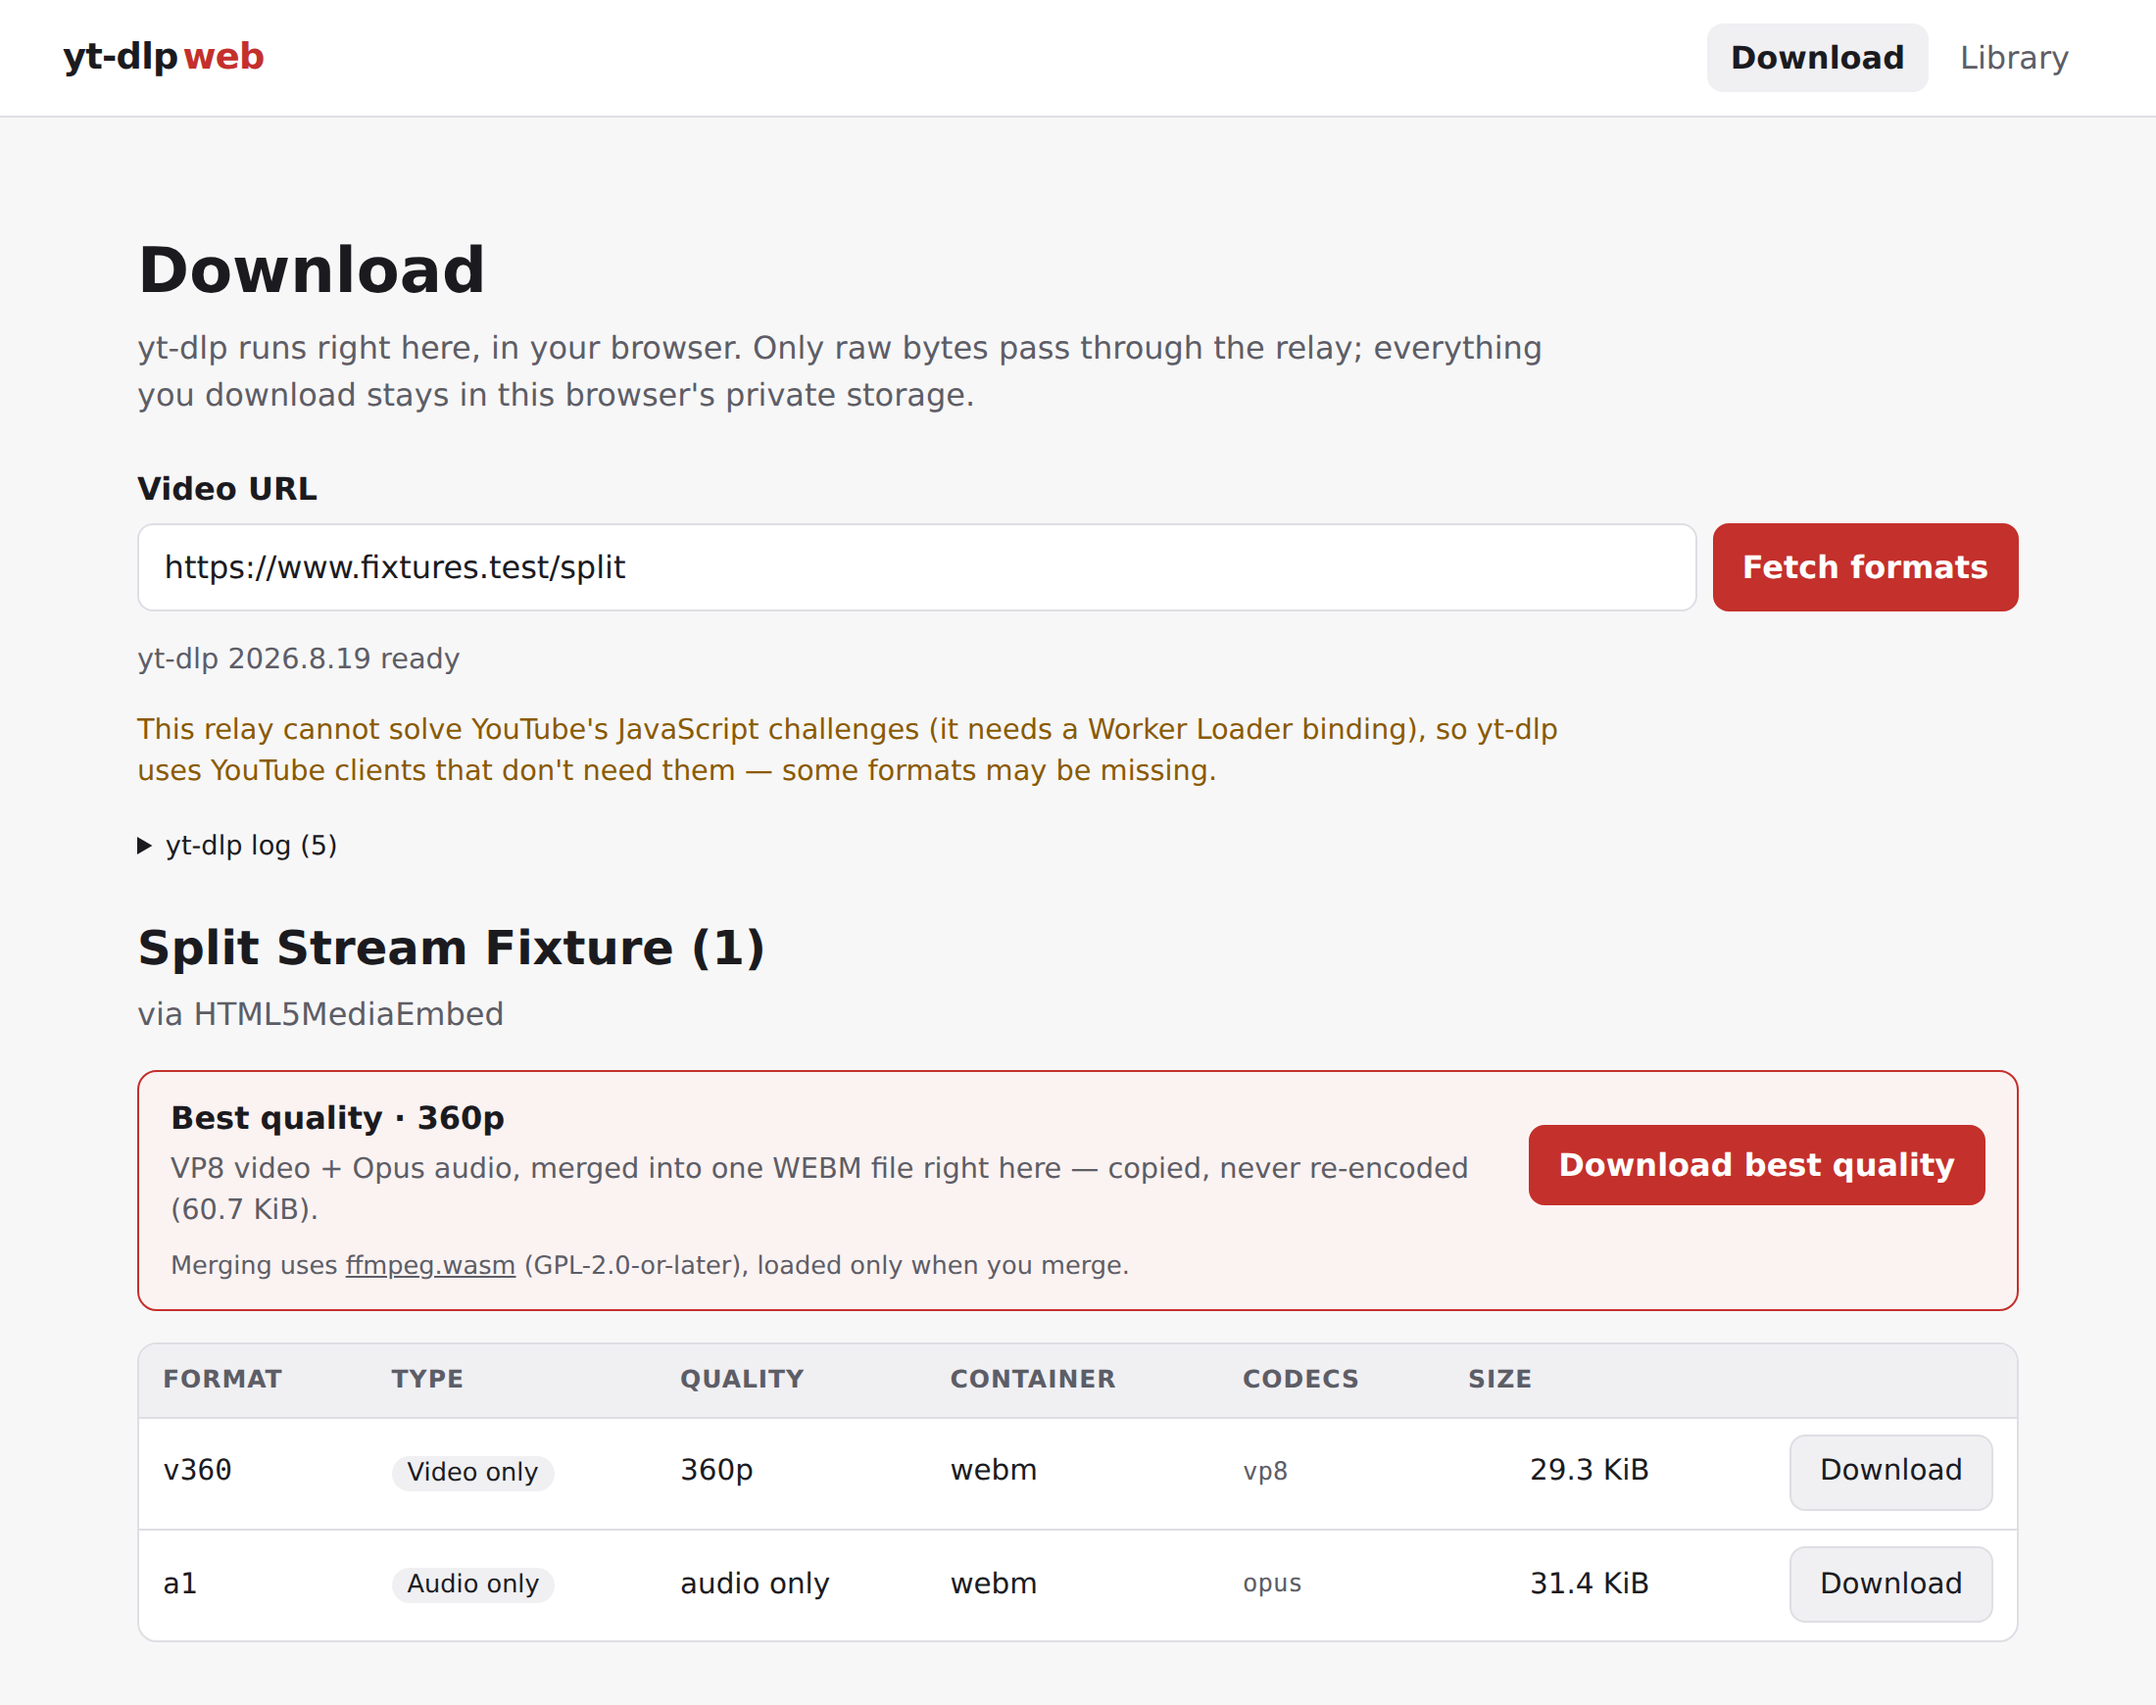
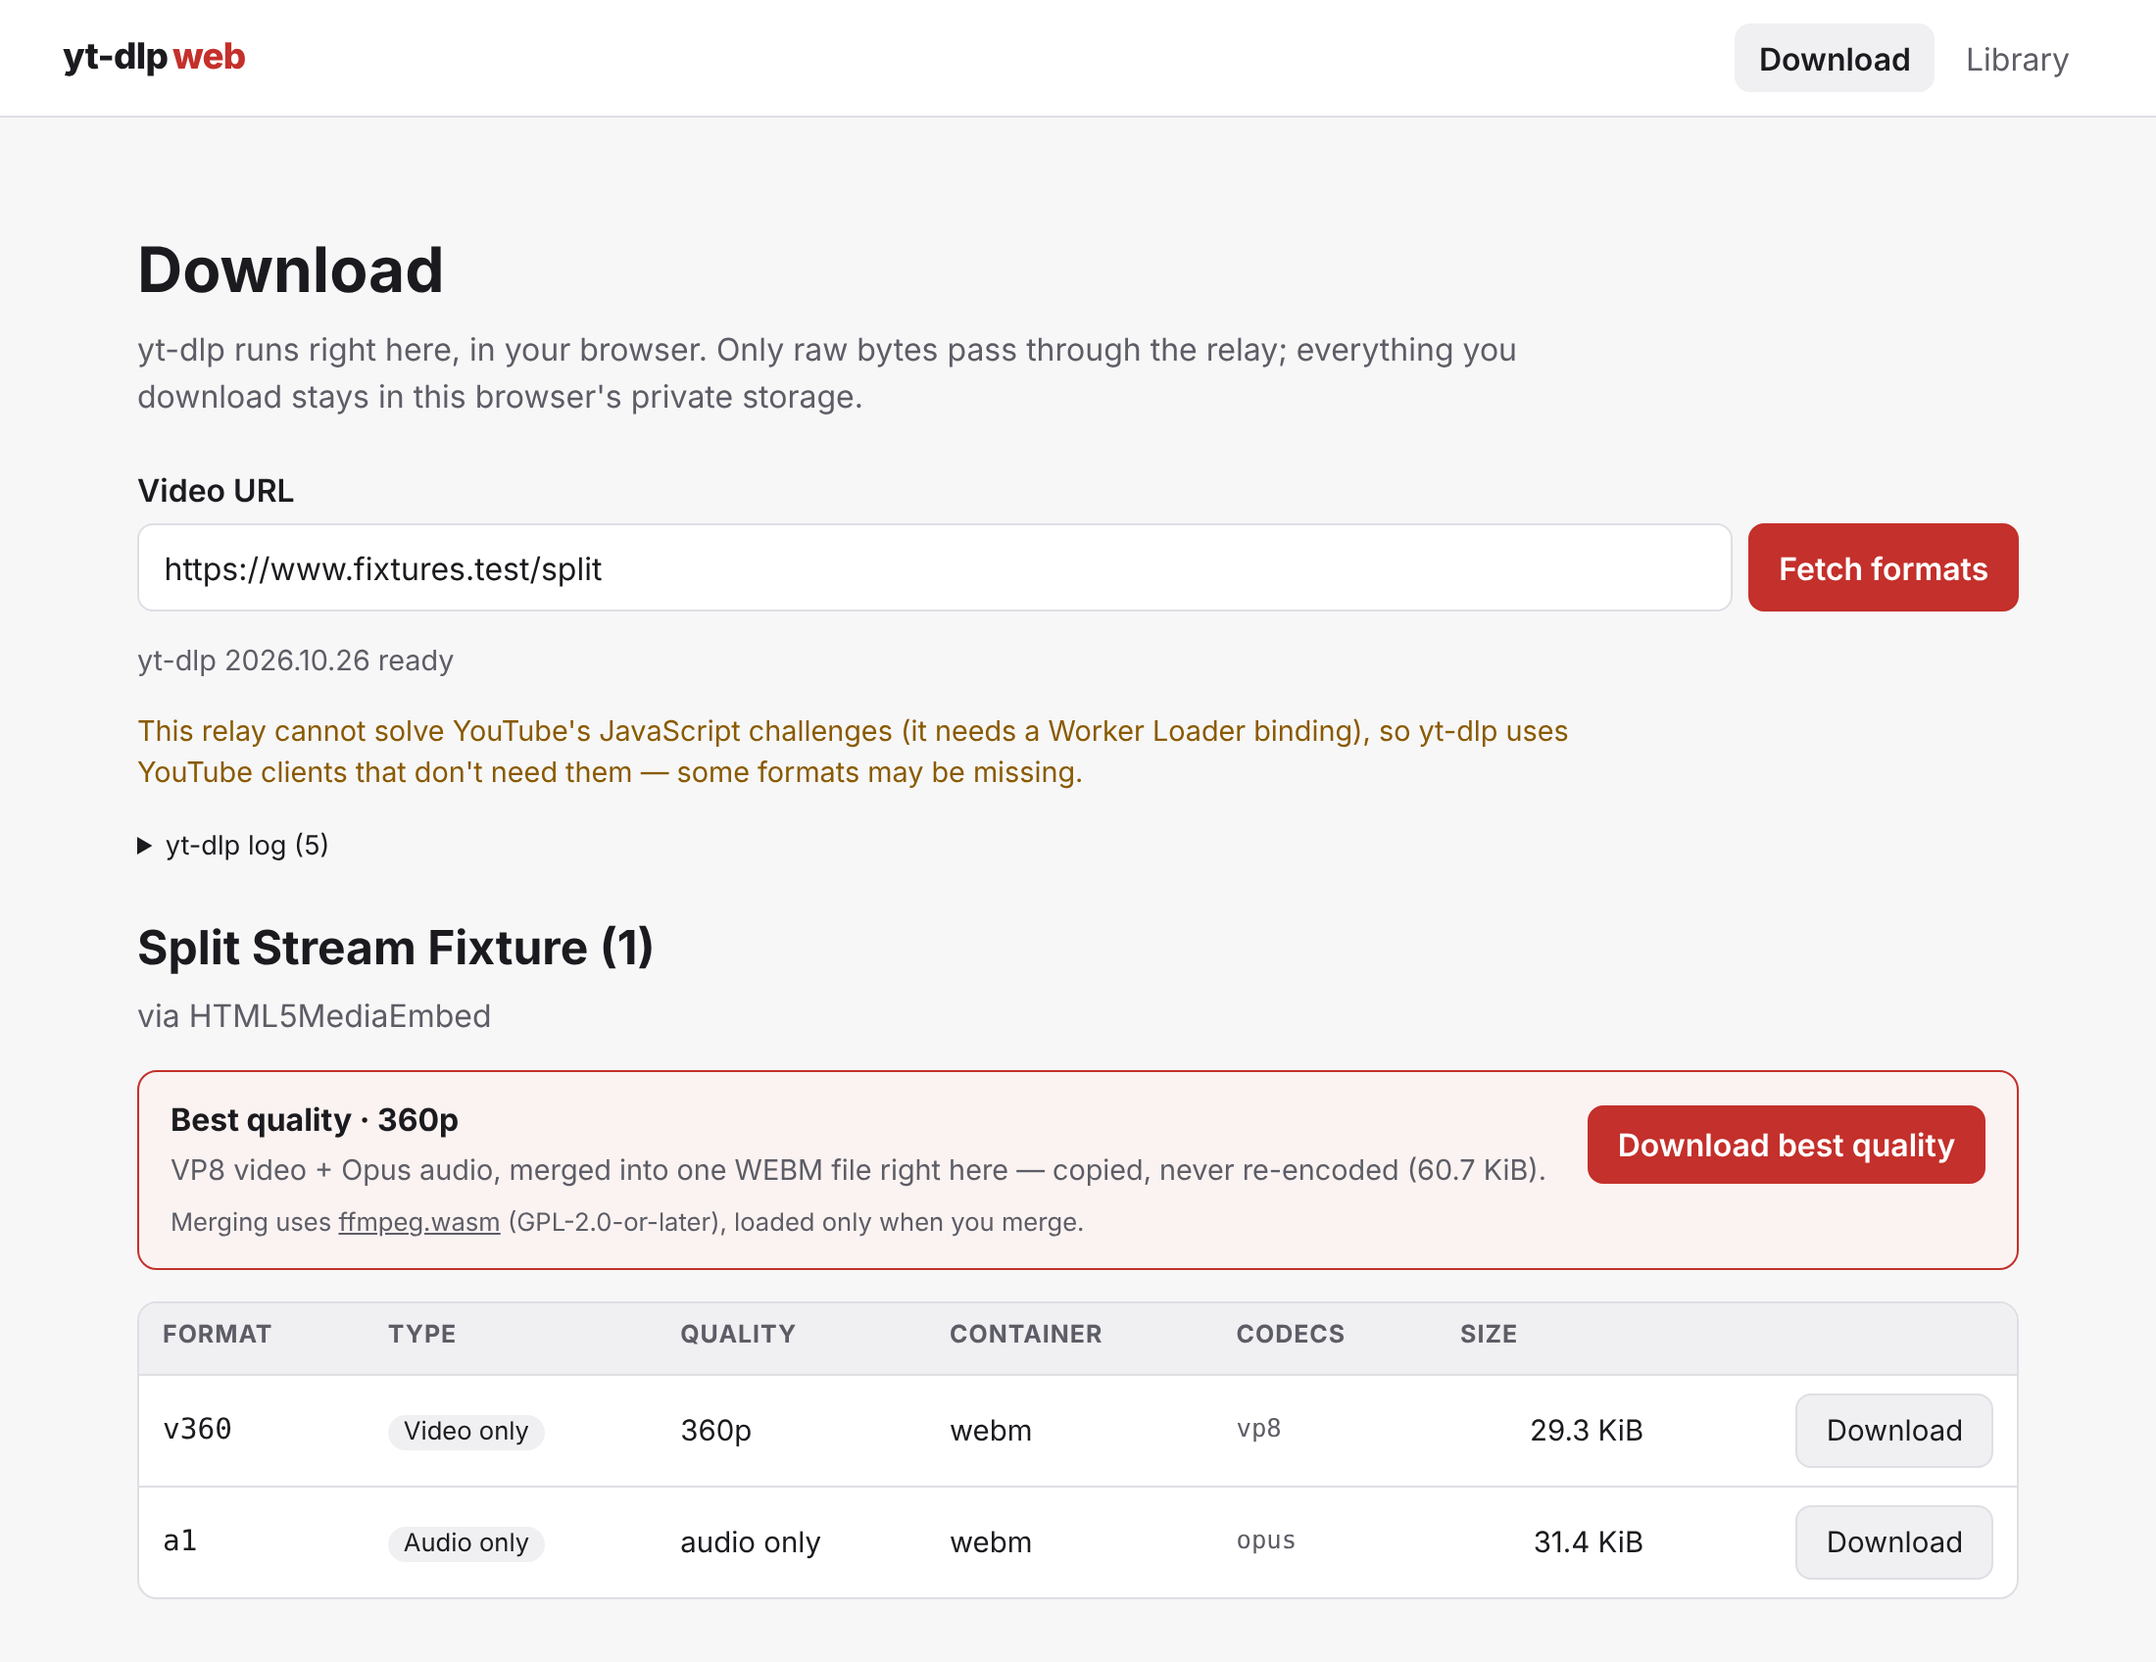
Update yt-dlp to 2026.10.26 and Bun to 1.4.4, and stop builds shipping stale wheels (#3)
yt-dlp moves from 2026.8.19 to 2026.10.26 with `bun run update:ytdlp`;
it still requires yt-dlp-ejs 0.8.0, so only its pin changes. The weekly
check-ytdlp workflow had flagged the release. The README screenshot
shows the version the engine reports, so it is regenerated.

Bun moves from 1.3.14, the last release before the 1.4 rewrite, to
1.4.4. Its version was written four times and kept in step by a
comment; package.json's packageManager is now the one place that names
it. The workflows read it through setup-bun's bun-version-file, both
Dockerfile.test stages copy the same oven/bun release, and ci.test.ts
fails when they disagree. bun.lock is unchanged: Bun 1.4.4 installs
from it frozen.

Nothing the older Bun forced needed reverting. The node: APIs in the
scripts exist because Vitest imports them under Node, and Vitest has
to stay there: under the Bun 1.4.4 runtime, 298 of 304 tests pass,
but the real-workerd sandbox tests cannot, because Bun's fetch()
ignores the undici dispatcher Miniflare routes requests through
(oven-sh/bun#39247). make-fixture-media.ts, which only Bun runs, now
spawns ffmpeg with Bun.spawnSync, with byte-identical output. CLAUDE.md
records all of this, plus `bun audit fix` for a failing audit gate.

`bun run assets` never removed what static/wheels/ and static/pyodide/
already held, so after a pin bump a local build shipped the previous
wheel as well. copyAll now makes each target hold exactly its files.
[…]

diff --git a/scripts/sync-assets.test.ts b/scripts/sync-assets.test.ts
@@ -1,4 +1,4 @@
-import { mkdtempSync, readFileSync, rmSync, writeFileSync } from 'node:fs';
+import { mkdirSync, mkdtempSync, readdirSync, readFileSync, rmSync, writeFileSync } from 'node:fs';
 import { tmpdir } from 'node:os';
 import { join } from 'node:path';
 import { afterEach, beforeEach, describe, expect, it } from 'vitest';
@@ -6,6 +6,7 @@ import { FFMPEG_CORE_JS, FFMPEG_CORE_WASM } from '../src/lib/remux/assets';
 import { BUILD_INFO_FILE, CORE_FILES, type BuildInfo } from './build-ffmpeg';
 import {
 	FFMPEG_SOURCE_TAGS,
+	copyAll,
 	ffmpegAssets,
 	ffmpegChoice,
 	ffmpegNotice,
@@ -15,6 +16,37 @@ import {
 const pkg = JSON.parse(readFileSync(new URL('../package.json', import.meta.url), 'utf8')) as {
 	dependencies: Record<string, string>;
 };
+
+describe('a synced asset directory', () => {
+	let from: string;
+	let to: string;
+	beforeEach(() => {
+		from = mkdtempSync(join(tmpdir(), 'assets-from-'));
+		to = join(mkdtempSync(join(tmpdir(), 'assets-to-')), 'wheels');
+	});
+	afterEach(() => {
+		rmSync(from, { recursive: true, force: true });
+		rmSync(join(to, '..'), { recursive: true, force: true });
+	});
+
+	it('holds exactly the files it is given: what an earlier pin left there would ship in the build', async () => {
+		writeFileSync(join(from, 'yt_dlp-new.whl'), 'new');
+		mkdirSync(to);
+		writeFileSync(join(to, 'yt_dlp-old.whl'), 'old');
+		await copyAll(['yt_dlp-new.whl'], from, to);
+		expect(readdirSync(to)).toEqual(['yt_dlp-new.whl']);
+		expect(readFileSync(join(to, 'yt_dlp-new.whl'), 'utf8')).toBe('new');
+	});
+
+	it('refuses a missing source, and leaves the directory as it was', async () => {
+		mkdirSync(to);
+		writeFileSync(join(to, 'yt_dlp-old.whl'), 'old');
+		await expect(copyAll(['yt_dlp-new.whl'], from, to)).rejects.toThrow(
+			/Missing .*yt_dlp-new\.whl/
+		);
+		expect(readdirSync(to)).toEqual(['yt_dlp-old.whl']);
+	});
+});
 
 describe('the ffmpeg.wasm the build ships', () => {
 	const version = pkg.dependencies['@ffmpeg/core'];

diff --git a/ci.test.ts b/ci.test.ts
@@ -4,10 +4,36 @@
  * on retry included: a test that only passes on retry is still a failure to
  * explain, and its trace is the explanation.
  */
-import { readFileSync } from 'node:fs';
+import { readFileSync, readdirSync } from 'node:fs';
 import { describe, expect, it } from 'vitest';
 
 const source = (path: string) => readFileSync(new URL(path, import.meta.url), 'utf8');
+
+describe('Bun', () => {
+	it("is one version, named once: package.json's packageManager", () => {
+		const version = JSON.parse(source('package.json')).packageManager?.match(
+			/^bun@(\d+\.\d+\.\d+)$/
+		)?.[1];
+		expect(version, 'package.json packageManager: "bun@x.y.z"').toBeDefined();
+
+		// Every Dockerfile.test stage copies its bun binary from that release's image…
+		const images = [...source('Dockerfile.test').matchAll(/--from=oven\/bun:(\S+)/g)].map(
+			(match) => match[1]
+		);
+		expect(images.length).toBeGreaterThan(0);
+		for (const image of images) expect(image).toBe(version);
+
+		// …and every workflow that sets Bun up reads the version from package.json.
+		const workflows = readdirSync(new URL('.github/workflows/', import.meta.url))
+			.map((name) => source(`.github/workflows/${name}`))
+			.filter((workflow) => workflow.includes('oven-sh/setup-bun@'));
+		expect(workflows.length).toBeGreaterThan(0);
+		for (const workflow of workflows) {
+			expect(workflow).toContain('bun-version-file: package.json');
+			expect(workflow).not.toMatch(/bun-version:/);
+		}
+	});
+});
 
 describe('CI keeps the e2e results of every failed attempt', () => {
 	it('gives each Playwright run in the gate its own directory under test-results/', () => {

diff --git a/scripts/sync-assets.ts b/scripts/sync-assets.ts
@@ -16,7 +16,7 @@
  * below ffmpeg.wasm's (Workers Static Assets: 25 MiB) unless the remux core is
  * built, or to ship no FFmpeg at all. The app then offers no merging.
  */
-import { readFileSync } from 'node:fs';
+import { existsSync, readFileSync } from 'node:fs';
 import { copyFile, mkdir, rm, writeFile } from 'node:fs/promises';
 import { join } from 'node:path';
 import { fileURLToPath } from 'node:url';
@@ -144,15 +144,20 @@ export function ffmpegAssets(
 	};
 }
 
-async function copyAll(files: readonly string[], from: string, to: string): Promise<void> {
-	await mkdir(to, { recursive: true });
+/**
+ * Make `to` hold exactly `files` from `from`. Whatever an earlier pin left
+ * there (the previous yt-dlp wheel, say) would otherwise ship in the build.
+ */
+export async function copyAll(files: readonly string[], from: string, to: string): Promise<void> {
 	for (const file of files) {
 		const source = join(from, file);
-		if (!(await Bun.file(source).exists())) {
+		if (!existsSync(source)) {
 			throw new Error(`Missing ${source} — run \`bun install\` / \`bun run fetch:wheels\` first`);
 		}
-		await copyFile(source, join(to, file));
 	}
+	await rm(to, { recursive: true, force: true });
+	await mkdir(to, { recursive: true });
+	for (const file of files) await copyFile(join(from, file), join(to, file));
 }
 
 if (import.meta.main) {

diff --git a/scripts/make-fixture-media.ts b/scripts/make-fixture-media.ts
@@ -17,7 +17,6 @@
  * The output is committed; this script only needs re-running to change it:
  *   bun scripts/make-fixture-media.ts
  */
-import { spawnSync } from 'node:child_process';
 import { existsSync, mkdirSync, readdirSync } from 'node:fs';
 import { join } from 'node:path';
 import { chromium } from '@playwright/test';
@@ -65,9 +64,9 @@ for (const [name, width, height] of [
 ] as const) {
 	const jpegs = await renderFrames(width, height, 24, `${height}p`);
 	const target = join(OUT, `${name}.webm`);
-	const run = spawnSync(
-		ffmpeg,
+	const run = Bun.spawnSync(
 		[
+			ffmpeg,
 			'-y',
 			'-fflags',
 			'+bitexact',
@@ -92,9 +91,9 @@ for (const [name, width, height] of [
 			'webm',
 			target
 		],
-		{ input: jpegs }
+		{ stdin: jpegs }
 	);
-	if (run.status !== 0)
+	if (!run.success)
 		throw new Error(`ffmpeg failed for ${name}: ${run.stderr.toString().slice(-800)}`);
 	console.log(`✓ ${target}`);
 }

diff --git a/src/lib/engine/wheels.ts b/src/lib/engine/wheels.ts
@@ -28,11 +28,11 @@ export interface WheelPin {
 export const WHEELS: readonly WheelPin[] = [
 	{
 		name: 'yt-dlp',
-		version: '2026.8.19',
-		file: 'yt_dlp-2026.8.19-py3-none-any.whl',
-		url: 'https://files.pythonhosted.org/packages/69/b2/8cd1613f56eed7ceb64fbd4df3f1c01246bfb098e6f398228bafda22b80b/yt_dlp-2026.8.19-py3-none-any.whl',
[1 lines of base64/hex data omitted]
-		size: 3185533
+		version: '2026.10.26',
+		file: 'yt_dlp-2026.10.26-py3-none-any.whl',
+		url: 'https://files.pythonhosted.org/packages/7f/3d/16ea7d5638cf585991f2c5705e8083688dde633d32d0871f2404e0f4d827/yt_dlp-2026.10.26-py3-none-any.whl',
[1 lines of base64/hex data omitted]
+		size: 3186201
 	},
 	{
 		name: 'yt-dlp-ejs',

diff --git a/CLAUDE.md b/CLAUDE.md
@@ -9,6 +9,9 @@ yt-dlp-web runs the **unmodified** [yt-dlp](https://github.com/yt-dlp/yt-dlp) Py
 ## Toolchain
 
 - **Bun is the package manager and script runner only** — Vitest and Playwright remain the test runners. Always `bun run test`, never `bun test` (that invokes Bun's built-in test runner, which cannot run this suite).
+- **One Bun release, named once:** `package.json`'s `packageManager` (`bun@1.4.4`). The workflows read it through `setup-bun`'s `bun-version-file: package.json`, `Dockerfile.test` copies the same release from `oven/bun`, and `ci.test.ts` holds them together. To bump Bun, change `packageManager` and both `oven/bun` lines in `Dockerfile.test`; the test fails until they agree.
+- **Vitest stays on Node.** Under the Bun 1.4.4 runtime (`bun --bun run test`) every suite passes except the real-workerd sandbox tests. Bun's `fetch()` ignores the undici dispatcher Miniflare routes requests through ([oven-sh/bun#39247](https://github.com/oven-sh/bun/issues/39247)), so Wrangler's harness cannot reach the Worker. So a module a test imports must also run under Node (`build-ffmpeg.ts` and `sync-assets.ts` use `node:` APIs, not `Bun.*` or `import.meta.dir`). Scripts no test imports use Bun's APIs.
+- **When `bun run audit` fails,** run `bun audit fix` (`--dry-run` first). It moves vulnerable packages to the lowest safe version within the declared ranges, touching `package.json` only for exact pins. Then run the full gate.
 - Vitest has two projects (`vite.config.ts`): **`unit`** (jsdom, Svelte's browser build — components, runes classes, browser-side logic) and **`node`** (plain Node resolution — `*.integration.test.ts`, `worker/**`, root `*.test.ts`). `svelteTesting()` adds the `browser` resolve condition, which swaps in browser stubs for packages like `ws`, so anything that boots a runtime lives in `node`.
 - The Pyodide integration tests (`src/lib/engine/*.integration.test.ts`) boot the **real Pyodide runtime** and install the **real pinned yt-dlp wheels**, downloaded and hash-verified into the gitignored `.wheel-cache/` by `bun run fetch:wheels`; they skip themselves if the wheels are missing. `Dockerfile.test` runs the fetch at image build, so CI always exercises them.
 - `worker/src/solve.workerd.test.ts` runs the Worker in **real workerd** (Wrangler's `createTestHarness`, reading `worker/wrangler.jsonc` with its Worker Loader binding) to prove the sandbox walls hold, including an adversarial program that smuggles `fetch()` into handler context.
